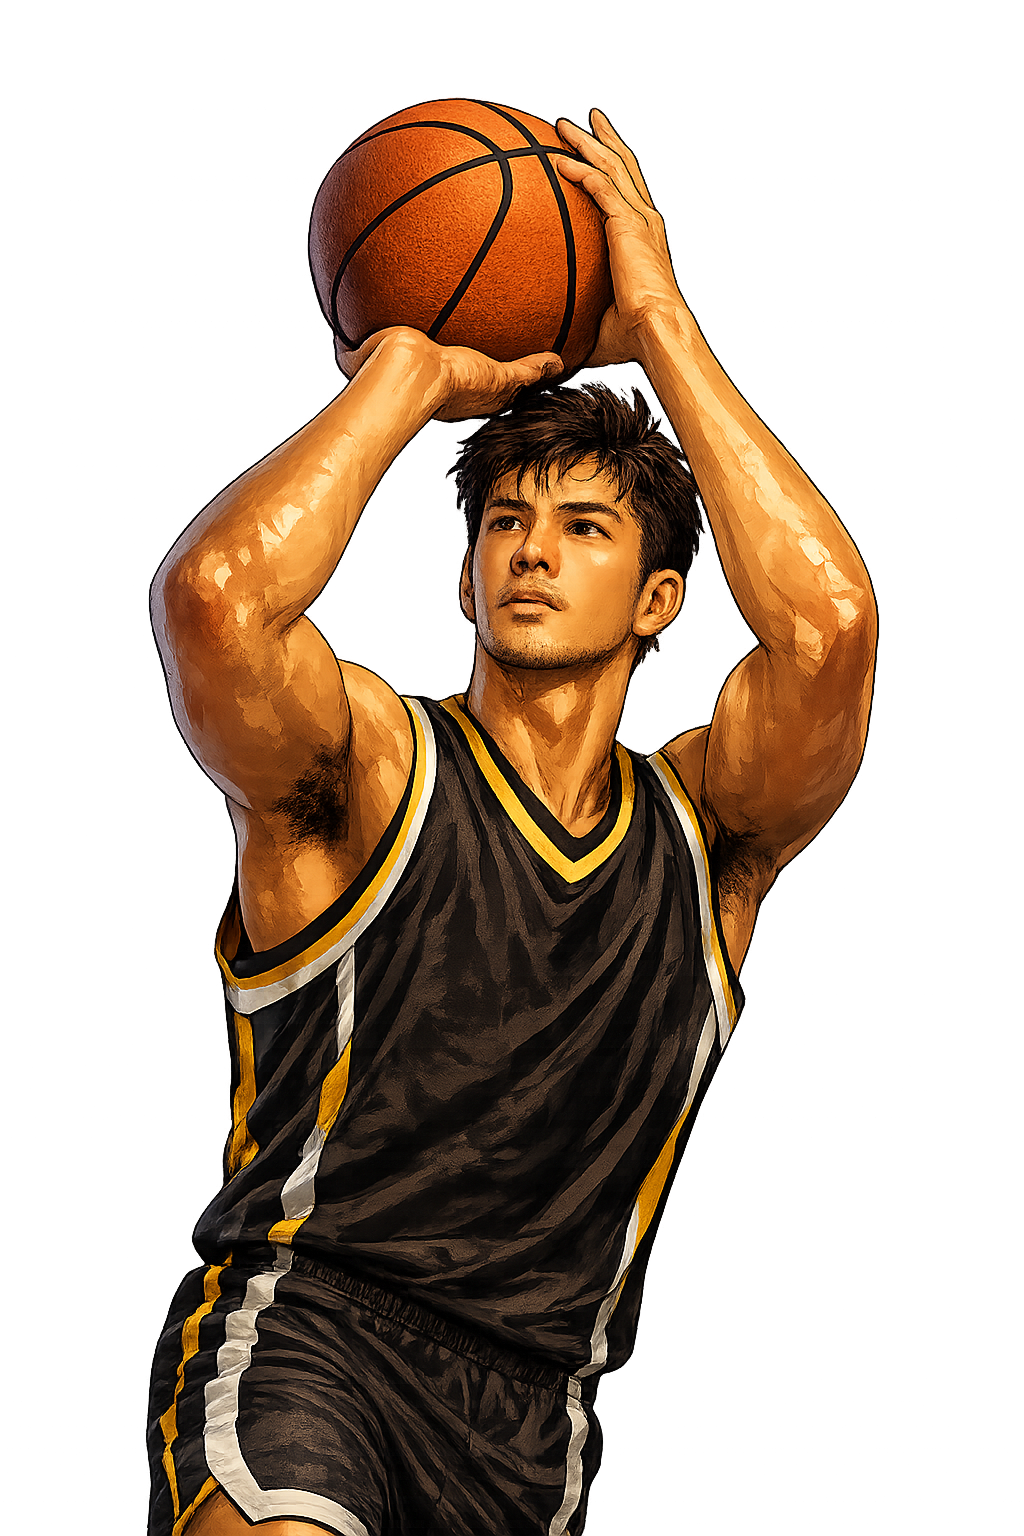
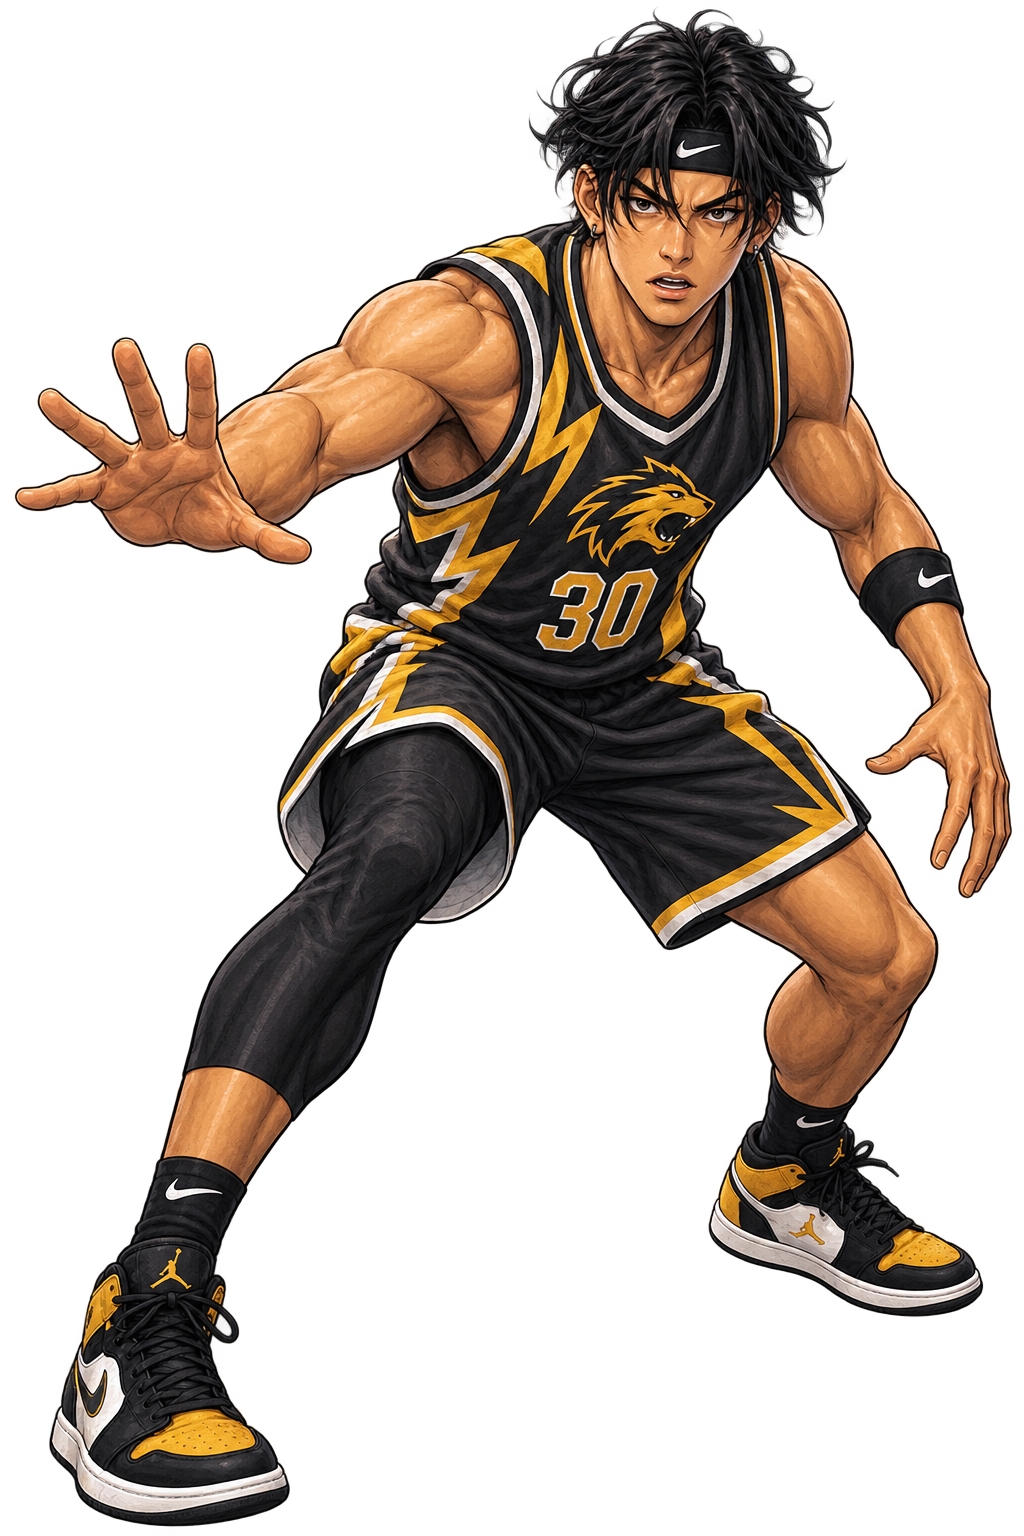
add over 10 new player portraits + change footer

diff --git a/client/src/components/layout/Footer.tsx b/client/src/components/layout/Footer.tsx
@@ -6,41 +6,33 @@ import FacebookIcon from "../common/icon/socials/FacebookIcon";
 
 function Footer() {
   return (
-    <footer className="footer footer-horizontal footer-center bg-base-200 text-base-content rounded p-10">
-      <nav className="grid grid-flow-col gap-4">
-        <Link className="link link-hover" to="/">
-          Home
-        </Link>
-        <a className="link link-hover">About us</a>
-      </nav>
-      <nav>
-        <div className="grid grid-flow-col gap-4">
-          <a
-            href="https://github.com/kaito24mako"
-            target="_blank"
-            rel="noopener noreferrer"
-          >
-            <GithubIcon />
-          </a>
-          <a
-            href="https://linkedin.com/in/yourusername"
-            target="_blank"
-            rel="noopener noreferrer"
-          >
-            <LinkedInIcon />
-          </a>
-          <a
-            href="https://facebook.com/yourusername"
-            target="_blank"
-            rel="noopener noreferrer"
-          >
-            <FacebookIcon />
-          </a>
-        </div>
-      </nav>
-      <aside>
+    <footer className="footer sm:footer-horizontal bg-base-200 text-base-content rounded py-7 px-4 md:px-13">
+      <aside className="grid-flow-col items-center mx-auto sm:mx-0">
         <p>Copyright © {new Date().getFullYear()} - Kaito Watanabe</p>
       </aside>
+      <nav className="grid-flow-col gap-4 md:place-self-center md:justify-self-end mx-auto sm:mx-0">
+        <a
+          href="https://github.com/kaito24mako"
+          target="_blank"
+          rel="noopener noreferrer"
+        >
+          <GithubIcon />
+        </a>
+        <a
+          href="https://linkedin.com/in/yourusername"
+          target="_blank"
+          rel="noopener noreferrer"
+        >
+          <LinkedInIcon />
+        </a>
+        <a
+          href="https://facebook.com/yourusername"
+          target="_blank"
+          rel="noopener noreferrer"
+        >
+          <FacebookIcon />
+        </a>
+      </nav>
     </footer>
   );
 }

diff --git a/client/src/components/features/landing-page/ScrollableSection.tsx b/client/src/components/features/landing-page/ScrollableSection.tsx
@@ -7,11 +7,6 @@ import { getPlayerByName } from "../../../utils/data/getPlayers";
 import RegularCard from "../../common/playerCard/RegularCard";
 import ScrollableItem from "./ScrollableItem";
 
-import player5 from "../../../assets/card/player/player5.png";
-import player2 from "../../../assets/card/player/player2.png";
-import rare from "../../../assets/card/rarity/rare-bg.png";
-import legendary from "../../../assets/card/rarity/legendary-bg.png";
-
 import fivePlayers from "../../../assets/bg/five-players-bg.png";
 import battle from "../../../assets/bg/battle.png";
 import coin from "../../../assets/icon/coin.png";
@@ -19,7 +14,9 @@ import FullArtCard from "../../common/playerCard/FullArtCard";
 
 function ScrollableSection() {
   const marcusWilliams = getPlayerByName("Marcus Williams");
+  const jaydenCarter = getPlayerByName("Jayden Carter");
   console.log(marcusWilliams);
+  console.log(jaydenCarter);
 
   return (
     <section className="flex flex-col gap-15 lg:gap-0">
@@ -47,12 +44,12 @@ function ScrollableSection() {
           />
           <RegularCard
             is3D={false}
-            playerImage={player2}
-            playerRarity={rare}
-            playerPosition="SF"
-            playerName="Steven Curry"
-            offenseCount={76}
-            defenseCount={73}
+            playerImage={jaydenCarter.image}
+            playerRarity={jaydenCarter.rarity}
+            playerPosition={jaydenCarter.position}
+            playerName={jaydenCarter.fullName}
+            offenseCount={jaydenCarter.offensiveRating}
+            defenseCount={jaydenCarter.defensiveRating}
           />
         </div>
       </ScrollableItem>
